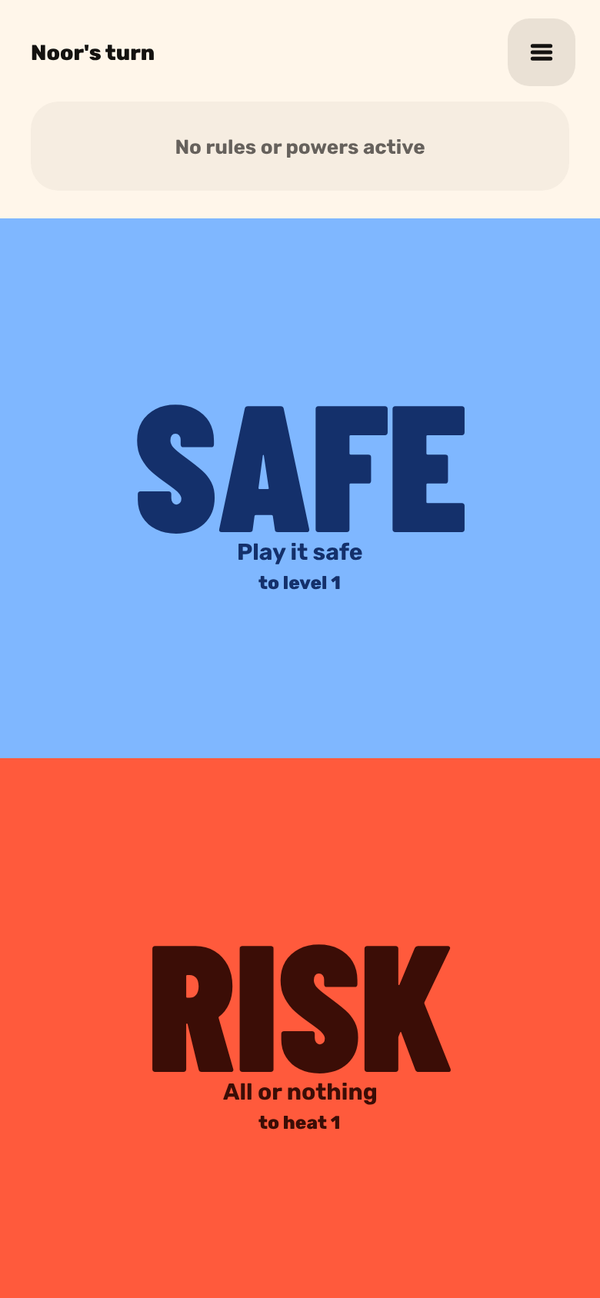
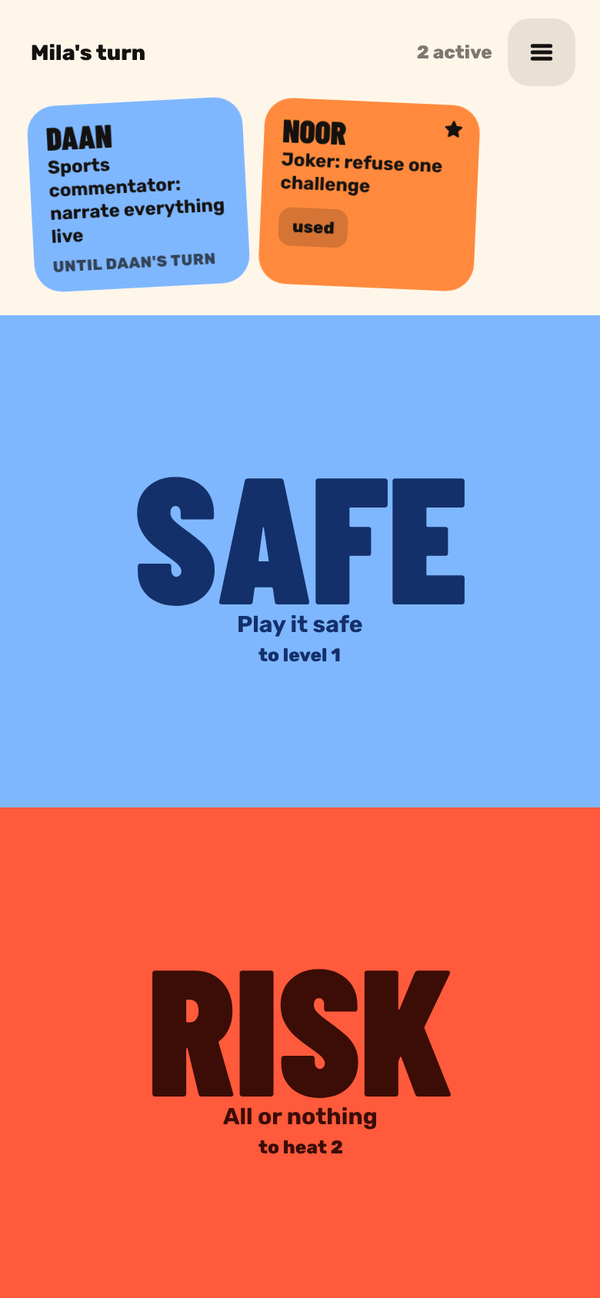
Add files via upload

diff --git a/apps/lafbekken/index.html b/apps/lafbekken/index.html
@@ -120,9 +120,16 @@
             <h2 id="screens-title">Screens</h2>
             <div class="shots">
               <img src="../../assets/screens/lafbekken-1.png" alt="Lafbekken start screen with New game and Manage cards" width="600" height="1298" loading="lazy">
-              <img src="../../assets/screens/lafbekken-2.png" alt="The choice screen: SAFE on top, RISK at the bottom" width="600" height="1298" loading="lazy">
-              <img src="../../assets/screens/lafbekken-3.png" alt="A revealed card: 2 small penalties for Noor" width="600" height="1298" loading="lazy">
-              <img src="../../assets/screens/lafbekken-4.png" alt="Typing in the names of five players" width="600" height="1298" loading="lazy">
+              <img src="../../assets/screens/lafbekken-2.png" alt="Choosing SAFE or RISK, with the active rule and joker on top" width="600" height="1298" loading="lazy">
+              <img src="../../assets/screens/lafbekken-3.png" alt="Event card FREEZE!: first to move takes 4 small penalties" width="600" height="1298" loading="lazy">
+              <img src="../../assets/screens/lafbekken-4.png" alt="Power card: Noor gets a joker to refuse one challenge" width="600" height="1298" loading="lazy">
+              <img src="../../assets/screens/lafbekken-5.png" alt="Rule card: Daan is a sports commentator until his next turn" width="600" height="1298" loading="lazy">
+              <img src="../../assets/screens/lafbekken-6.png" alt="Challenge card: an honest question for someone at the table" width="600" height="1298" loading="lazy">
+              <img src="../../assets/screens/lafbekken-7.png" alt="Duel card: challenge someone to an arm wrestle" width="600" height="1298" loading="lazy">
+              <img src="../../assets/screens/lafbekken-8.png" alt="Double or nothing: cash out or gamble one more time" width="600" height="1298" loading="lazy">
+              <img src="../../assets/screens/lafbekken-9.png" alt="Double or nothing gone wrong: too greedy, a big penalty for Sem" width="600" height="1298" loading="lazy">
+              <img src="../../assets/screens/lafbekken-10.png" alt="Lost on RISK at heat 3: 6 small penalties for Mila" width="600" height="1298" loading="lazy">
+              <img src="../../assets/screens/lafbekken-11.png" alt="Even SAFE can go wrong: 1 small penalty for Daan" width="600" height="1298" loading="lazy">
             </div>
           </section>
 
